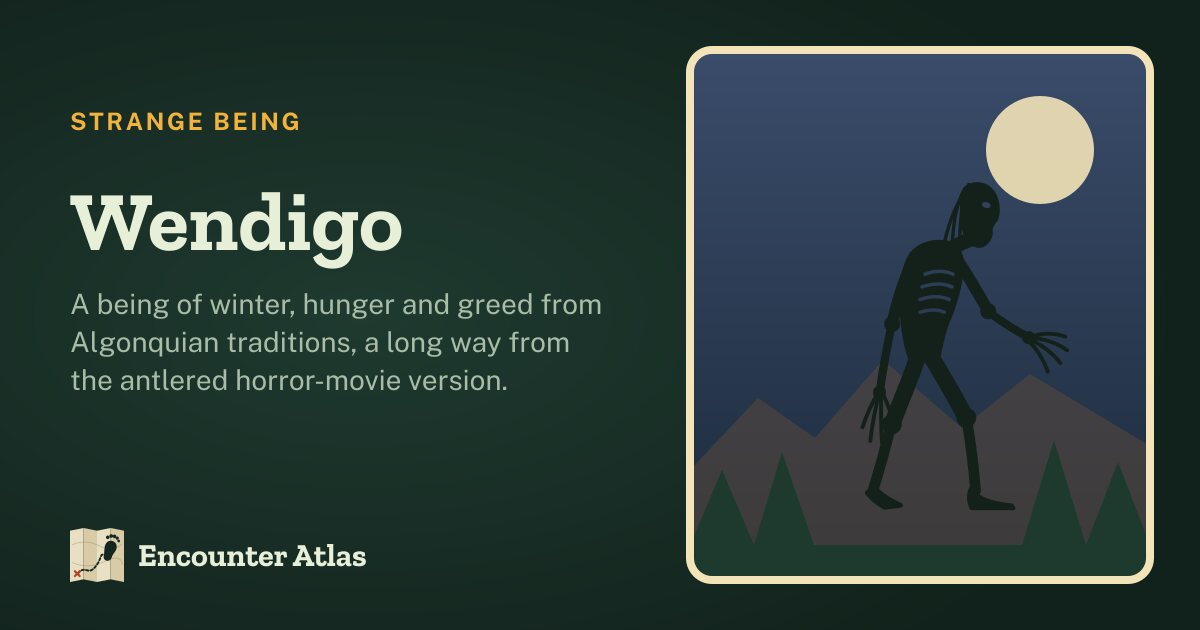
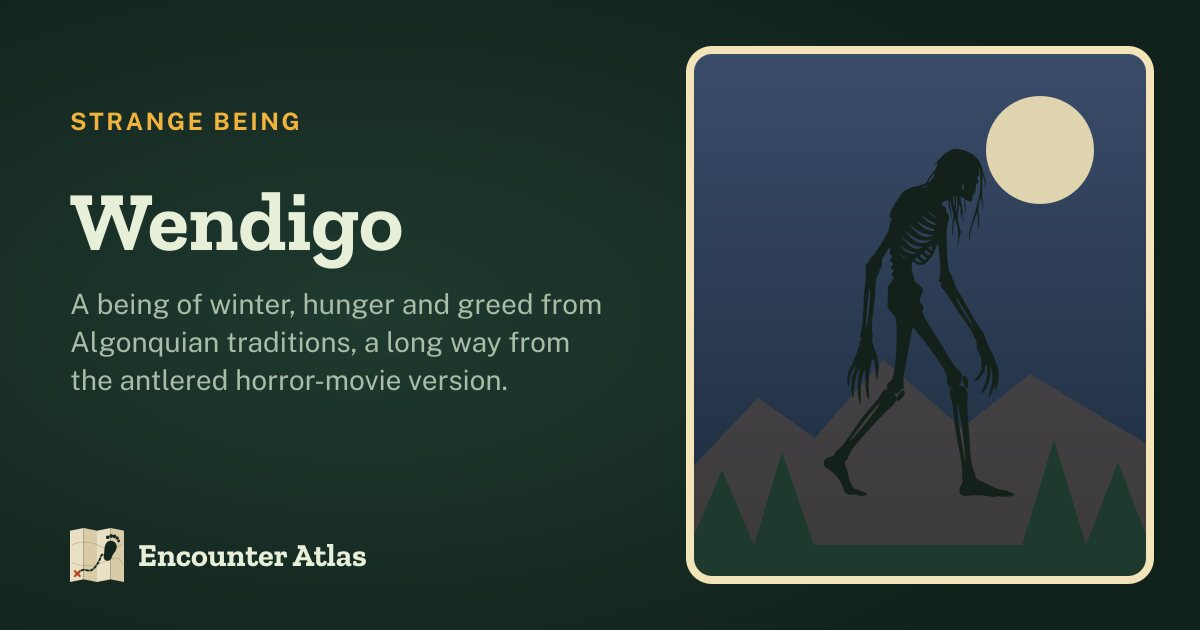
Wendigo art: Mike's Gemini silhouette (gaunt skeletal human, no antlers), traced

Changed region(s): [[0.6783, 0.2413, 0.8942, 0.8143]]

diff --git a/site/sw.js b/site/sw.js
@@ -2,7 +2,7 @@
 // 2.5 s) the last saved copy shows instead, and offline falls back to it too,
 // static files and map data cache-first. Map tiles are left to the browser cache.
 // Also: sighting-alert notifications (push), and waking the report form when a report queued with no signal can go.
-const V = 'ea-v98';
+const V = 'ea-v99';
 const BASE = new URL(self.registration.scope).pathname.replace(/\/$/, '');
 self.addEventListener('install', (e) => {
   e.waitUntil(caches.open(V).then((c) => c.addAll([BASE + '/', BASE + '/map/', BASE + '/near-me/', BASE + '/report/', BASE + '/static/site.css', BASE + '/static/map.js',
